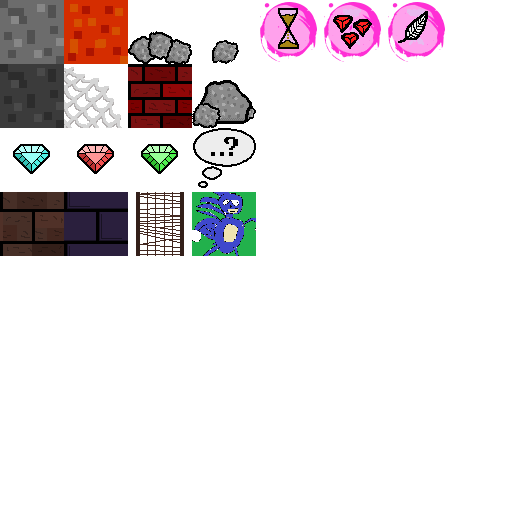
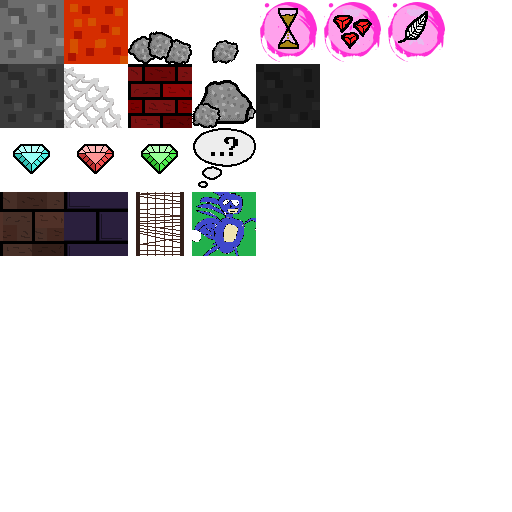
sonuh

Changed region(s): [[0.5, 0.125, 0.625, 0.25]]

diff --git a/src/main.cpp b/src/main.cpp
@@ -22,7 +22,7 @@ sf::Event event;
 sf::Clock mainClock;
 sf::Time prevTime;
 
-sf::Sound boulderSound, fallingSound, jumpingSound, feetSound, musicSound, bumpSound, gemSound;
+sf::Sound boulderSound, fallingSound, jumpingSound, feetSound, musicSound, bumpSound, gemSound, powerSound;
 
 void resetGame() {
 	std::cout << player.z << " " << tunnel.getLength() - 1 << std::endl;
@@ -34,6 +34,7 @@ void resetGame() {
 	rockVel = ROCK_START_VEL;
 	musicSound.setPlayingOffset(sf::Time::Zero);
 	musicSound.play();
+	feetSound.play();
 }
 
 void events() {
@@ -125,14 +126,18 @@ void logic() {
 				}
 			} else if (gem == 4) {
 				player.slowTime = 10;
+				powerSound.play();
 			} else if (gem == 5) {
 				for (int i = 5; i < 9; i++) {
 					for (int j = z1 + 1; j <= z1 + 6; j++) {
+						if (j >= tunnel.getLength()) break;
 						if (tunnel.get(j, i) == 0) tunnel.set(j, i, 1);
 					}
 				}
+				powerSound.play();
 			} else if (gem == 6) {
 				player.feather = 5;
+				powerSound.play();
 			}
 			tunnel.set(z1, x1 + 5, 0);
 		}
@@ -200,7 +205,7 @@ void logic() {
 	player.yVel -= difff * 15;
 
 	if (player.z > tunnel.getLength() - 2) {
-
+		feetSound.pause();
 	} else {
 		player.z += player.zVel * difff * 2;
 	}
@@ -268,17 +273,26 @@ int main(int argc, char ** argv) {
 	feetSound.setRelativeToListener(true);
 	feetSound.setBuffer(sb5);
 	feetSound.setLoop(true);
+	feetSound.setVolume(50);
 	feetSound.play();
 
 	sf::SoundBuffer sb6;
 	sb6.loadFromFile("assets/bump.ogg");
 	bumpSound.setRelativeToListener(true);
 	bumpSound.setBuffer(sb6);
+	bumpSound.setVolume(40);
 
 	sf::SoundBuffer sb7;
 	sb7.loadFromFile("assets/gem.ogg");
 	gemSound.setRelativeToListener(true);
 	gemSound.setBuffer(sb7);
+	gemSound.setVolume(60);
+
+	sf::SoundBuffer sb8;
+	sb8.loadFromFile("assets/Powerup3.wav");
+	powerSound.setRelativeToListener(true);
+	powerSound.setBuffer(sb8);
+	powerSound.setVolume(80);
 
     // Create the SFML window
 	window.create(sf::VideoMode(WINDOW_WIDTH, WINDOW_HEIGHT), "Game!");

diff --git a/src/Renderer.cpp b/src/Renderer.cpp
@@ -24,6 +24,7 @@ const sf::Vector2f bridgeTexCoords[4] = {sf::Vector2f(128, 192), sf::Vector2f(19
 const sf::Vector2f timeTexCoords[4]   = {sf::Vector2f(256, 0), sf::Vector2f(320, 0), sf::Vector2f(320, 64), sf::Vector2f(256, 64)};
 const sf::Vector2f rubyTexCoords[4]   = {sf::Vector2f(320, 0), sf::Vector2f(384, 0), sf::Vector2f(384, 64), sf::Vector2f(320, 64)};
 const sf::Vector2f hoverTexCoords[4]  = {sf::Vector2f(384, 0), sf::Vector2f(446, 0), sf::Vector2f(446, 64), sf::Vector2f(384, 64)};
+const sf::Vector2f obsTexCoords[4] = {sf::Vector2f(256, 64), sf::Vector2f(320, 64), sf::Vector2f(320, 128), sf::Vector2f(256, 128)};
 
 Renderer::Renderer() {
 	// Tileset
@@ -398,7 +399,7 @@ void Renderer::drawTile(sf::VertexArray& vertexArray, float z1, float z2, float 
 		} else if (tunnel->getDifficulty() == 2) {
 			texCoords = blueTexCoords;
 		} else if (tunnel->getDifficulty() == 3) {
-			texCoords = darkStoneTexCoords;
+			texCoords = obsTexCoords;
 		} else if (tunnel->getDifficulty() == 4) {
 			texCoords = cumonTexCoords;
 		} else if (tunnel->getDifficulty() == 5) {
